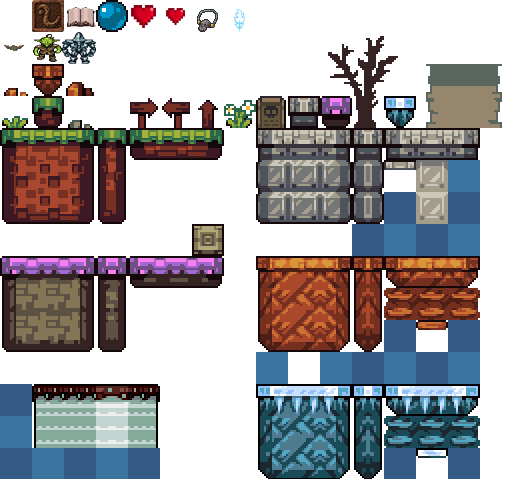
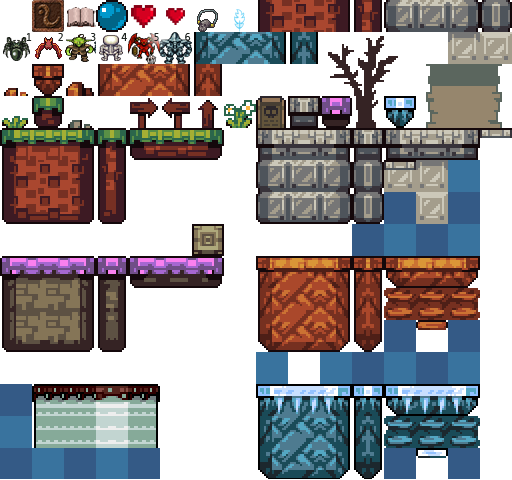
new background. new tiles. new readme

Changed region(s): [[0.0, 0.0, 1.0, 0.2188], [0.9375, 0.25, 1.0, 0.3125], [0.75, 0.3438, 0.8125, 0.4062]]

diff --git a/dist/bundle.js b/dist/bundle.js
@@ -2294,6 +2294,7 @@ exports.default = {
 			_this4.animations.add('bubble');
 			_this4.animations.play('bubble', 30, true);
 			_this4.powerUps = {};
+			_this4.timeAlive = 500;
 			return _this4;
 		}
 
@@ -11811,6 +11812,7 @@ var _class = function (_Phaser$State) {
       this.game.load.image('tiles', 'assets/images/tiles.png');
       game.load.spritesheet('book', 'assets/images/book.png', 32, 32);
       this.game.load.image('forrest-background', 'assets/images/backgrounds/forrest.png');
+      this.game.load.image('temple-background', 'assets/images/backgrounds/temple.png');
       this.game.load.image('graveyard-background', 'assets/images/backgrounds/graveyard.png');
       this.game.load.image('clouds-background', 'assets/images/backgrounds/clouds.png');
       game.load.audio('dream', ['assets/music/dream.mp3']);
@@ -11903,6 +11905,10 @@ var _class = function (_Phaser$State) {
       console.log('Splash screen state');
 
       //world
+      this.background = this.game.add.image(0, 0, 'temple-background');
+      this.background.fixedToCamera = true;
+      this.background.alpha = 0;
+      game.add.tween(this.background).to({ alpha: 1 }, 16000, _phaser2.default.Easing.Linear.None, true);
       this.music = game.add.audio('stranger');
       this.music.loop = true;
       this.music.play();

diff --git a/src/states/Boot.js b/src/states/Boot.js
@@ -38,6 +38,7 @@ export default class extends Phaser.State {
     this.game.load.image('tiles', 'assets/images/tiles.png');
     game.load.spritesheet('book', 'assets/images/book.png', 32, 32);
     this.game.load.image('forrest-background', 'assets/images/backgrounds/forrest.png');
+    this.game.load.image('temple-background', 'assets/images/backgrounds/temple.png');
     this.game.load.image('graveyard-background', 'assets/images/backgrounds/graveyard.png');
     this.game.load.image('clouds-background', 'assets/images/backgrounds/clouds.png');
     game.load.audio('dream', ['assets/music/dream.mp3']);

diff --git a/src/states/Splash.js b/src/states/Splash.js
@@ -13,6 +13,10 @@ export default class extends Phaser.State {
     console.log('Splash screen state')
 
     //world
+    this.background = this.game.add.image(0, 0, 'temple-background');
+    this.background.fixedToCamera = true;
+    this.background.alpha = 0
+    game.add.tween(this.background).to({ alpha: 1 }, 16000, Phaser.Easing.Linear.None, true);
     this.music = game.add.audio('stranger');
     this.music.loop = true;
     this.music.play();

diff --git a/src/classes/Effects.js b/src/classes/Effects.js
@@ -95,6 +95,7 @@ export default {
 			this.animations.add('bubble');
 			this.animations.play('bubble', 30, true);
 			this.powerUps = {};
+			this.timeAlive = 500
 		}
 
 		update() {

diff --git a/README.md b/README.md
@@ -1,7 +1,11 @@
-# Chubby Bunny
-## A cutesy hopster simulator <3
+# Preistess
+## Medieval side scroller with lots of magic
 
-https://orangedrink.github.io/chubby-bunny/ 
+As the dawn approaches the priestess awakens from a dream sent by the goddess. 
+
+A dark power rises in the east. You must gather power and stop this evil being.
+
+https://orangedrink.github.io/preistess/ 
 
 ## Under the hood
 phaser.js + node + webpack + static-server. Good starter kit for game development
